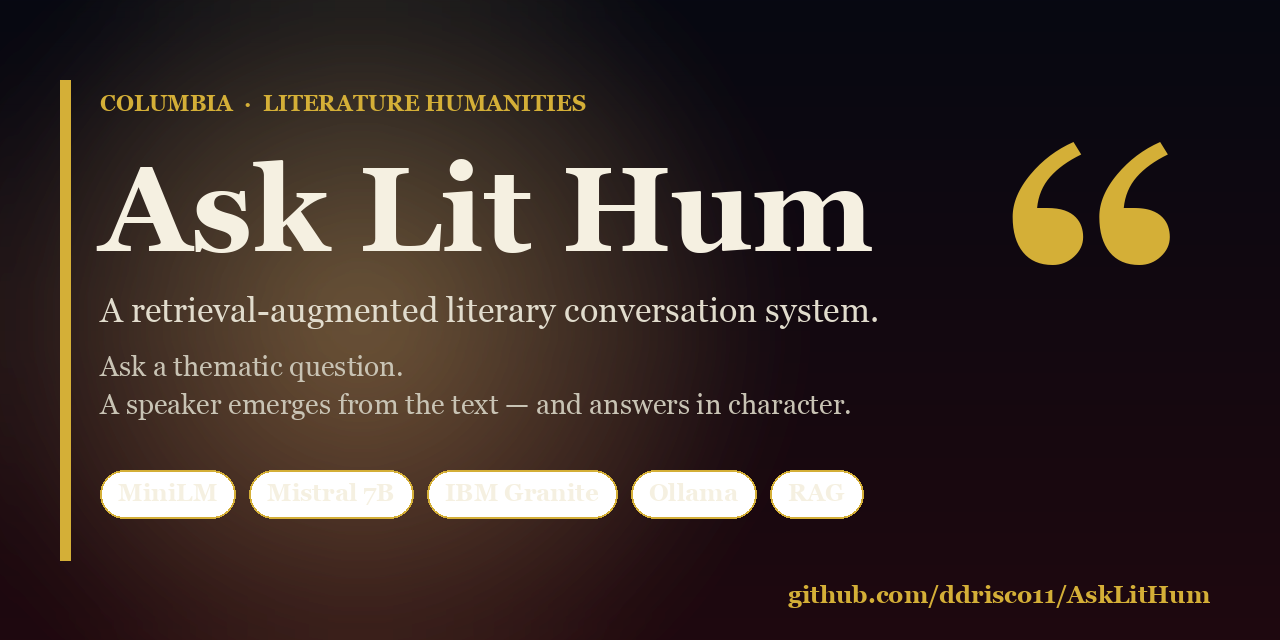
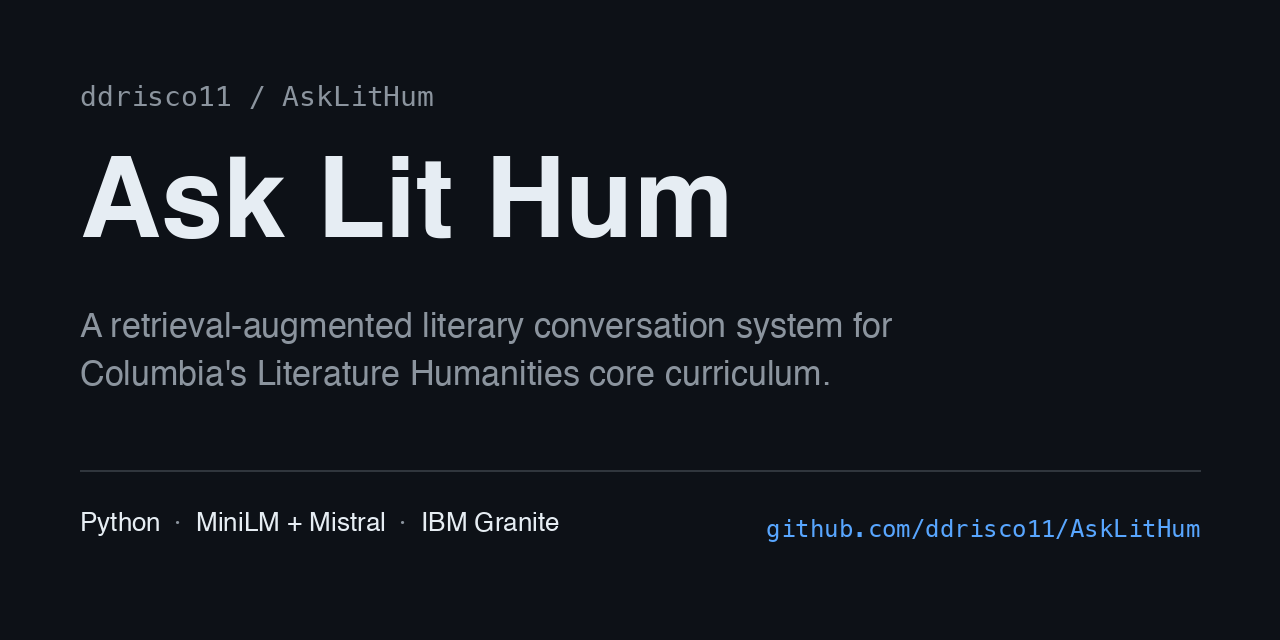
Redesign social preview: cleaner, GitHub-standard style

diff --git a/make_social_card.py b/make_social_card.py
@@ -1,92 +1,79 @@
-from PIL import Image, ImageDraw, ImageFilter, ImageFont
+from PIL import Image, ImageDraw, ImageFont
 from pathlib import Path
 
 W, H = 1280, 640
 OUT = Path("Visuals/social_preview.png")
 
-def font(size, bold=False):
-    candidates = [
-        "/System/Library/Fonts/Supplemental/Georgia Bold.ttf" if bold else "/System/Library/Fonts/Supplemental/Georgia.ttf",
-        "/System/Library/Fonts/Helvetica.ttc",
-    ]
-    for p in candidates:
+BG = (13, 17, 23)          # GitHub dark
+FG = (230, 237, 243)       # primary text
+MUTED = (139, 148, 158)    # secondary text
+ACCENT = (88, 166, 255)    # GitHub link blue
+
+def font(size, weight="regular"):
+    paths = {
+        "bold": [
+            "/System/Library/Fonts/Helvetica.ttc",
+            "/System/Library/Fonts/Supplemental/Arial Bold.ttf",
+        ],
+        "regular": [
+            "/System/Library/Fonts/Helvetica.ttc",
+            "/System/Library/Fonts/Supplemental/Arial.ttf",
+        ],
+        "mono": [
+            "/System/Library/Fonts/Menlo.ttc",
+            "/System/Library/Fonts/Monaco.ttf",
+        ],
+    }
+    idx = 1 if weight == "bold" else 0
+    for p in paths[weight]:
         try:
-            return ImageFont.truetype(p, size)
+            return ImageFont.truetype(p, size, index=idx if p.endswith(".ttc") else 0)
         except Exception:
-            continue
+            try:
+                return ImageFont.truetype(p, size)
+            except Exception:
+                continue
     return ImageFont.load_default()
 
-# Vertical gradient: deep navy -> burgundy
-img = Image.new("RGB", (W, H), (20, 24, 48))
-px = img.load()
-top = (18, 22, 46)
-bot = (78, 22, 38)
-for y in range(H):
-    t = y / (H - 1)
-    r = int(top[0] * (1 - t) + bot[0] * t)
-    g = int(top[1] * (1 - t) + bot[1] * t)
-    b = int(top[2] * (1 - t) + bot[2] * t)
-    for x in range(W):
-        px[x, y] = (r, g, b)
-
-# Soft gold radial glow center-left
-glow = Image.new("RGB", (W, H), (0, 0, 0))
-gd = ImageDraw.Draw(glow)
-cx, cy = 360, 320
-for r in range(420, 0, -8):
-    a = int(60 * (1 - r / 420))
-    gd.ellipse((cx - r, cy - r, cx + r, cy + r), fill=(a, int(a*0.85), int(a*0.45)))
-glow = glow.filter(ImageFilter.GaussianBlur(40))
-img = Image.blend(img, Image.eval(glow, lambda v: min(255, v)), 0.6)
-# Re-apply by adding glow
-base = img.convert("RGB")
-img = Image.new("RGB", (W, H))
-bp = base.load()
-gp = glow.load()
-op = img.load()
-for y in range(H):
-    for x in range(W):
-        br, bg, bb = bp[x, y]
-        gr, gg, gbl = gp[x, y]
-        op[x, y] = (min(255, br + gr), min(255, bg + gg), min(255, bb + gbl))
-
+img = Image.new("RGB", (W, H), BG)
 draw = ImageDraw.Draw(img)
 
-# Decorative side bar (gold)
-draw.rectangle((60, 80, 70, H - 80), fill=(212, 175, 55))
+PAD = 80
 
-# Eyebrow
-draw.text((100, 90), "COLUMBIA  ·  LITERATURE HUMANITIES", font=font(22, bold=True), fill=(212, 175, 55))
+# Owner pill (top)
+owner = "ddrisco11 / AskLitHum"
+draw.text((PAD, PAD), owner, font=font(28, "mono"), fill=MUTED)
 
 # Title
-draw.text((100, 140), "Ask Lit Hum", font=font(120, bold=True), fill=(245, 240, 225))
+title = "Ask Lit Hum"
+draw.text((PAD, PAD + 70), title, font=font(112, "bold"), fill=FG)
 
-# Subtitle
-sub = "A retrieval-augmented literary conversation system."
-draw.text((100, 290), sub, font=font(34), fill=(225, 220, 205))
+# Description (wrapped manually, two lines max)
+desc_l1 = "A retrieval-augmented literary conversation system for"
+desc_l2 = "Columbia's Literature Humanities core curriculum."
+draw.text((PAD, PAD + 230), desc_l1, font=font(34, "regular"), fill=MUTED)
+draw.text((PAD, PAD + 278), desc_l2, font=font(34, "regular"), fill=MUTED)
 
-# Tagline lines
-draw.text((100, 350), "Ask a thematic question.", font=font(28), fill=(200, 195, 180))
-draw.text((100, 388), "A speaker emerges from the text — and answers in character.", font=font(28), fill=(200, 195, 180))
+# Divider
+draw.line((PAD, H - 170, W - PAD, H - 170), fill=(48, 54, 61), width=2)
 
-# Stack chips
-chips = ["MiniLM", "Mistral 7B", "IBM Granite", "Ollama", "RAG"]
-x = 100
-y = 470
-for c in chips:
-    tw = draw.textlength(c, font=font(24, bold=True))
-    pad = 18
-    draw.rounded_rectangle((x, y, x + tw + pad * 2, y + 48), radius=24, fill=(255, 255, 255, 30), outline=(212, 175, 55), width=2)
-    draw.text((x + pad, y + 8), c, font=font(24, bold=True), fill=(245, 240, 225))
-    x += tw + pad * 2 + 14
+# Stack labels (bottom row)
+items = ["Python", "MiniLM + Mistral", "IBM Granite"]
+y = H - 130
+x = PAD
+sep = "  ·  "
+for i, it in enumerate(items):
+    draw.text((x, y), it, font=font(26, "regular"), fill=FG)
+    x += int(draw.textlength(it, font=font(26, "regular")))
+    if i < len(items) - 1:
+        draw.text((x, y), sep, font=font(26, "regular"), fill=MUTED)
+        x += int(draw.textlength(sep, font=font(26, "regular")))
 
-# Bottom-right attribution
+# URL bottom-right
 url = "github.com/ddrisco11/AskLitHum"
-tw = draw.textlength(url, font=font(24, bold=True))
-draw.text((W - tw - 70, H - 60), url, font=font(24, bold=True), fill=(212, 175, 55))
-
-# Decorative quote mark
-draw.text((W - 280, 80), "“", font=font(360, bold=True), fill=(212, 175, 55, 80))
+url_f = font(24, "mono")
+tw = draw.textlength(url, font=url_f)
+draw.text((W - PAD - tw, y + 4), url, font=url_f, fill=ACCENT)
 
 OUT.parent.mkdir(parents=True, exist_ok=True)
 img.save(OUT, "PNG", optimize=True)
